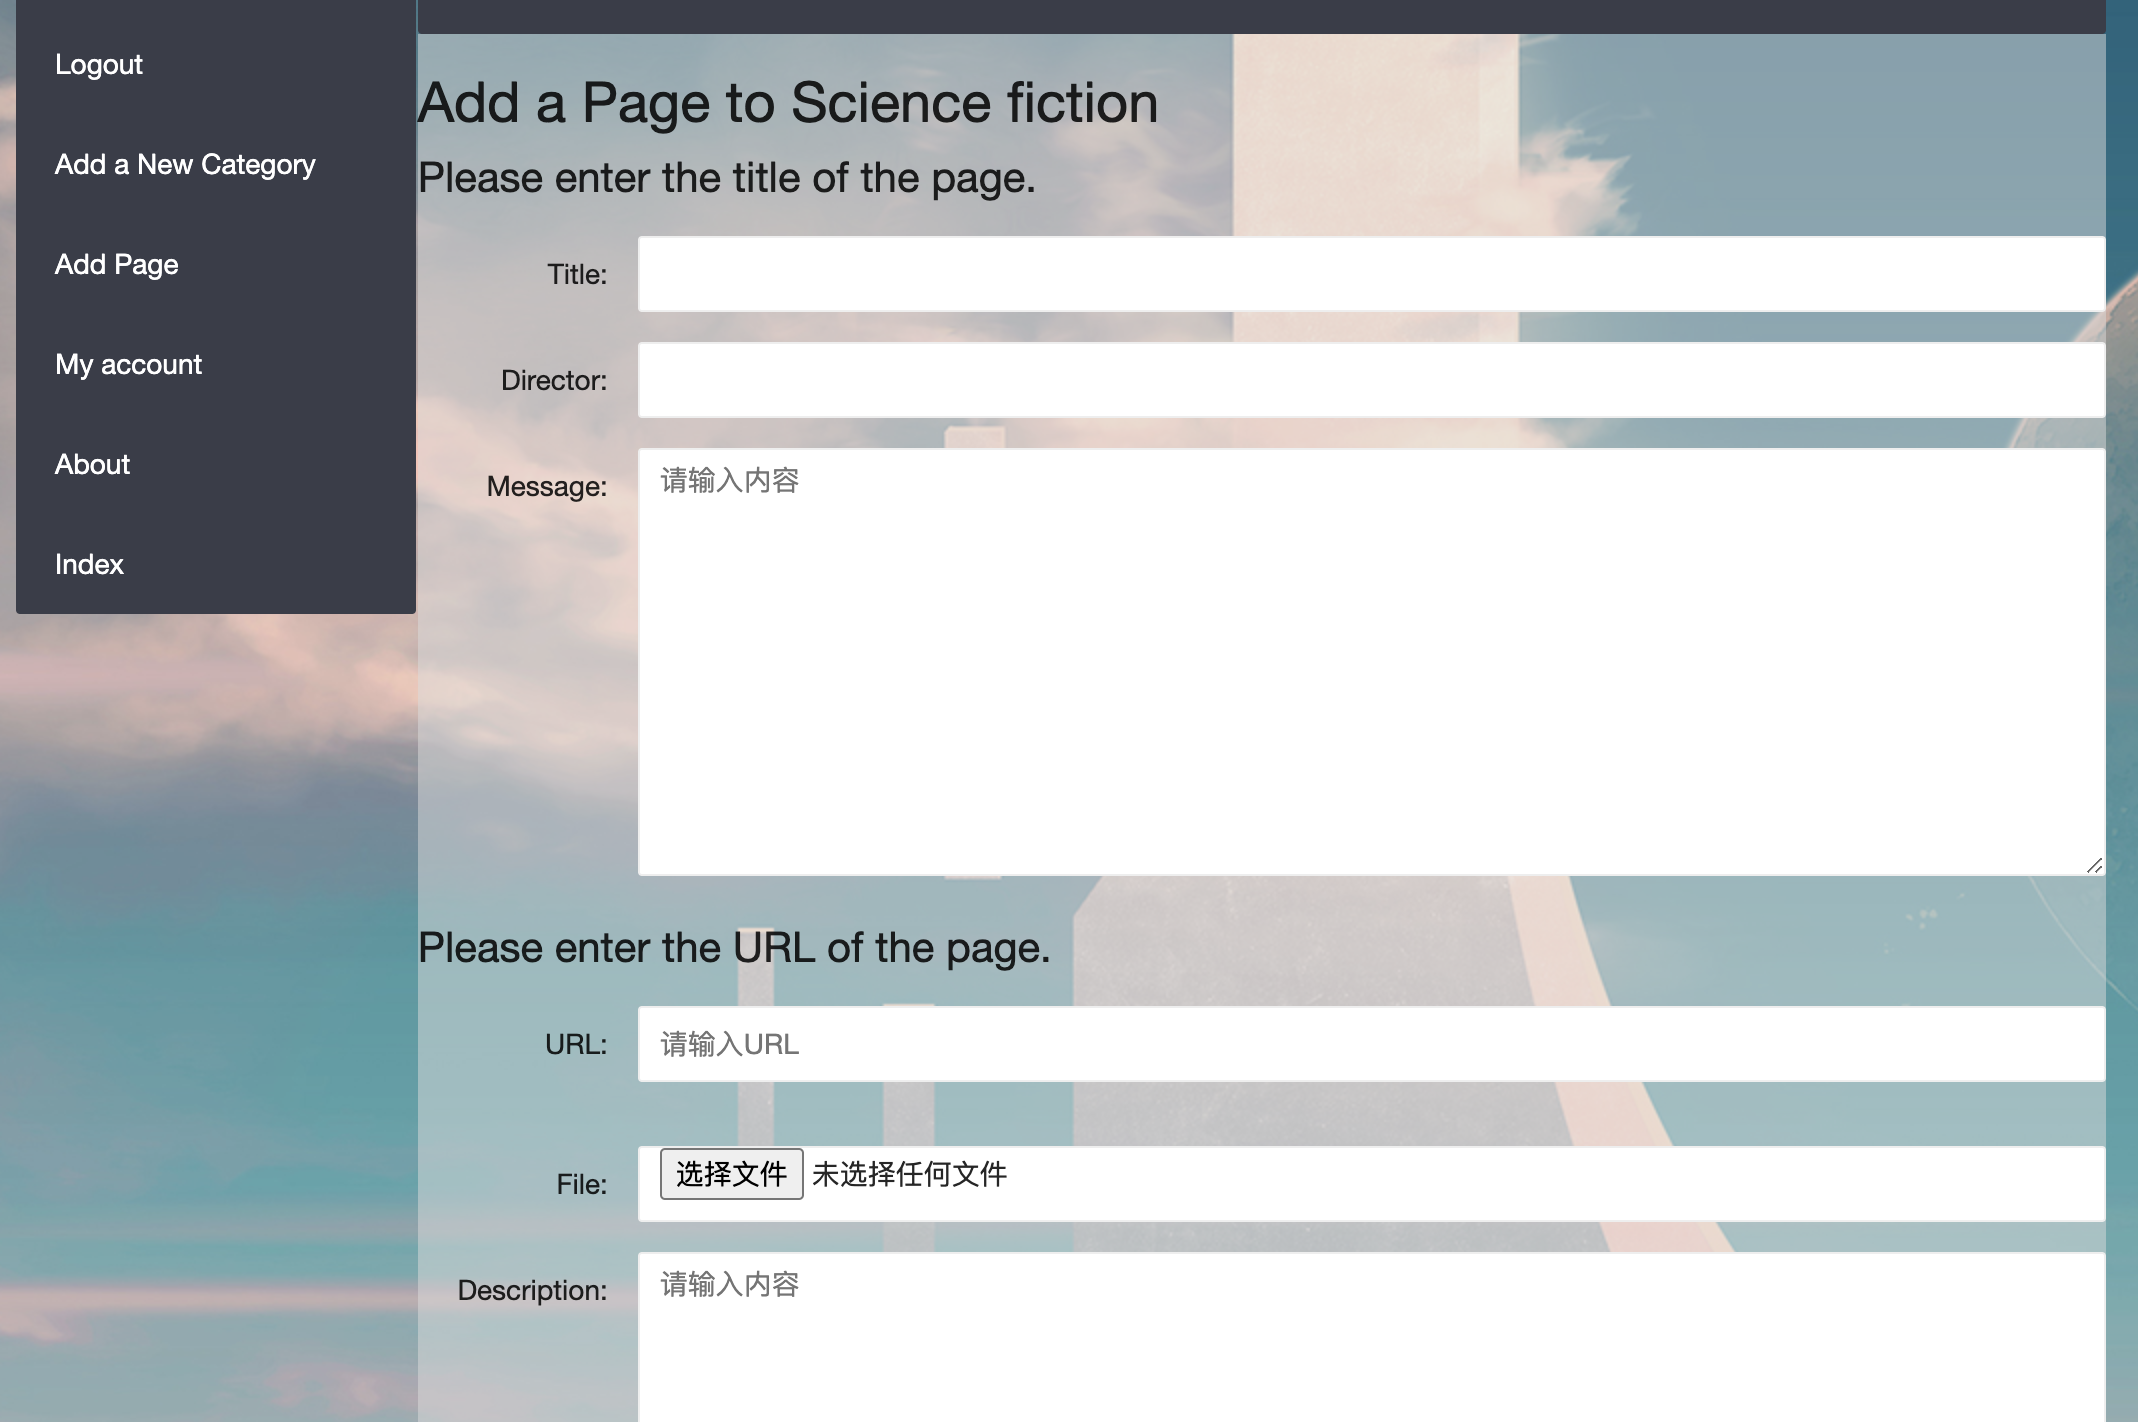
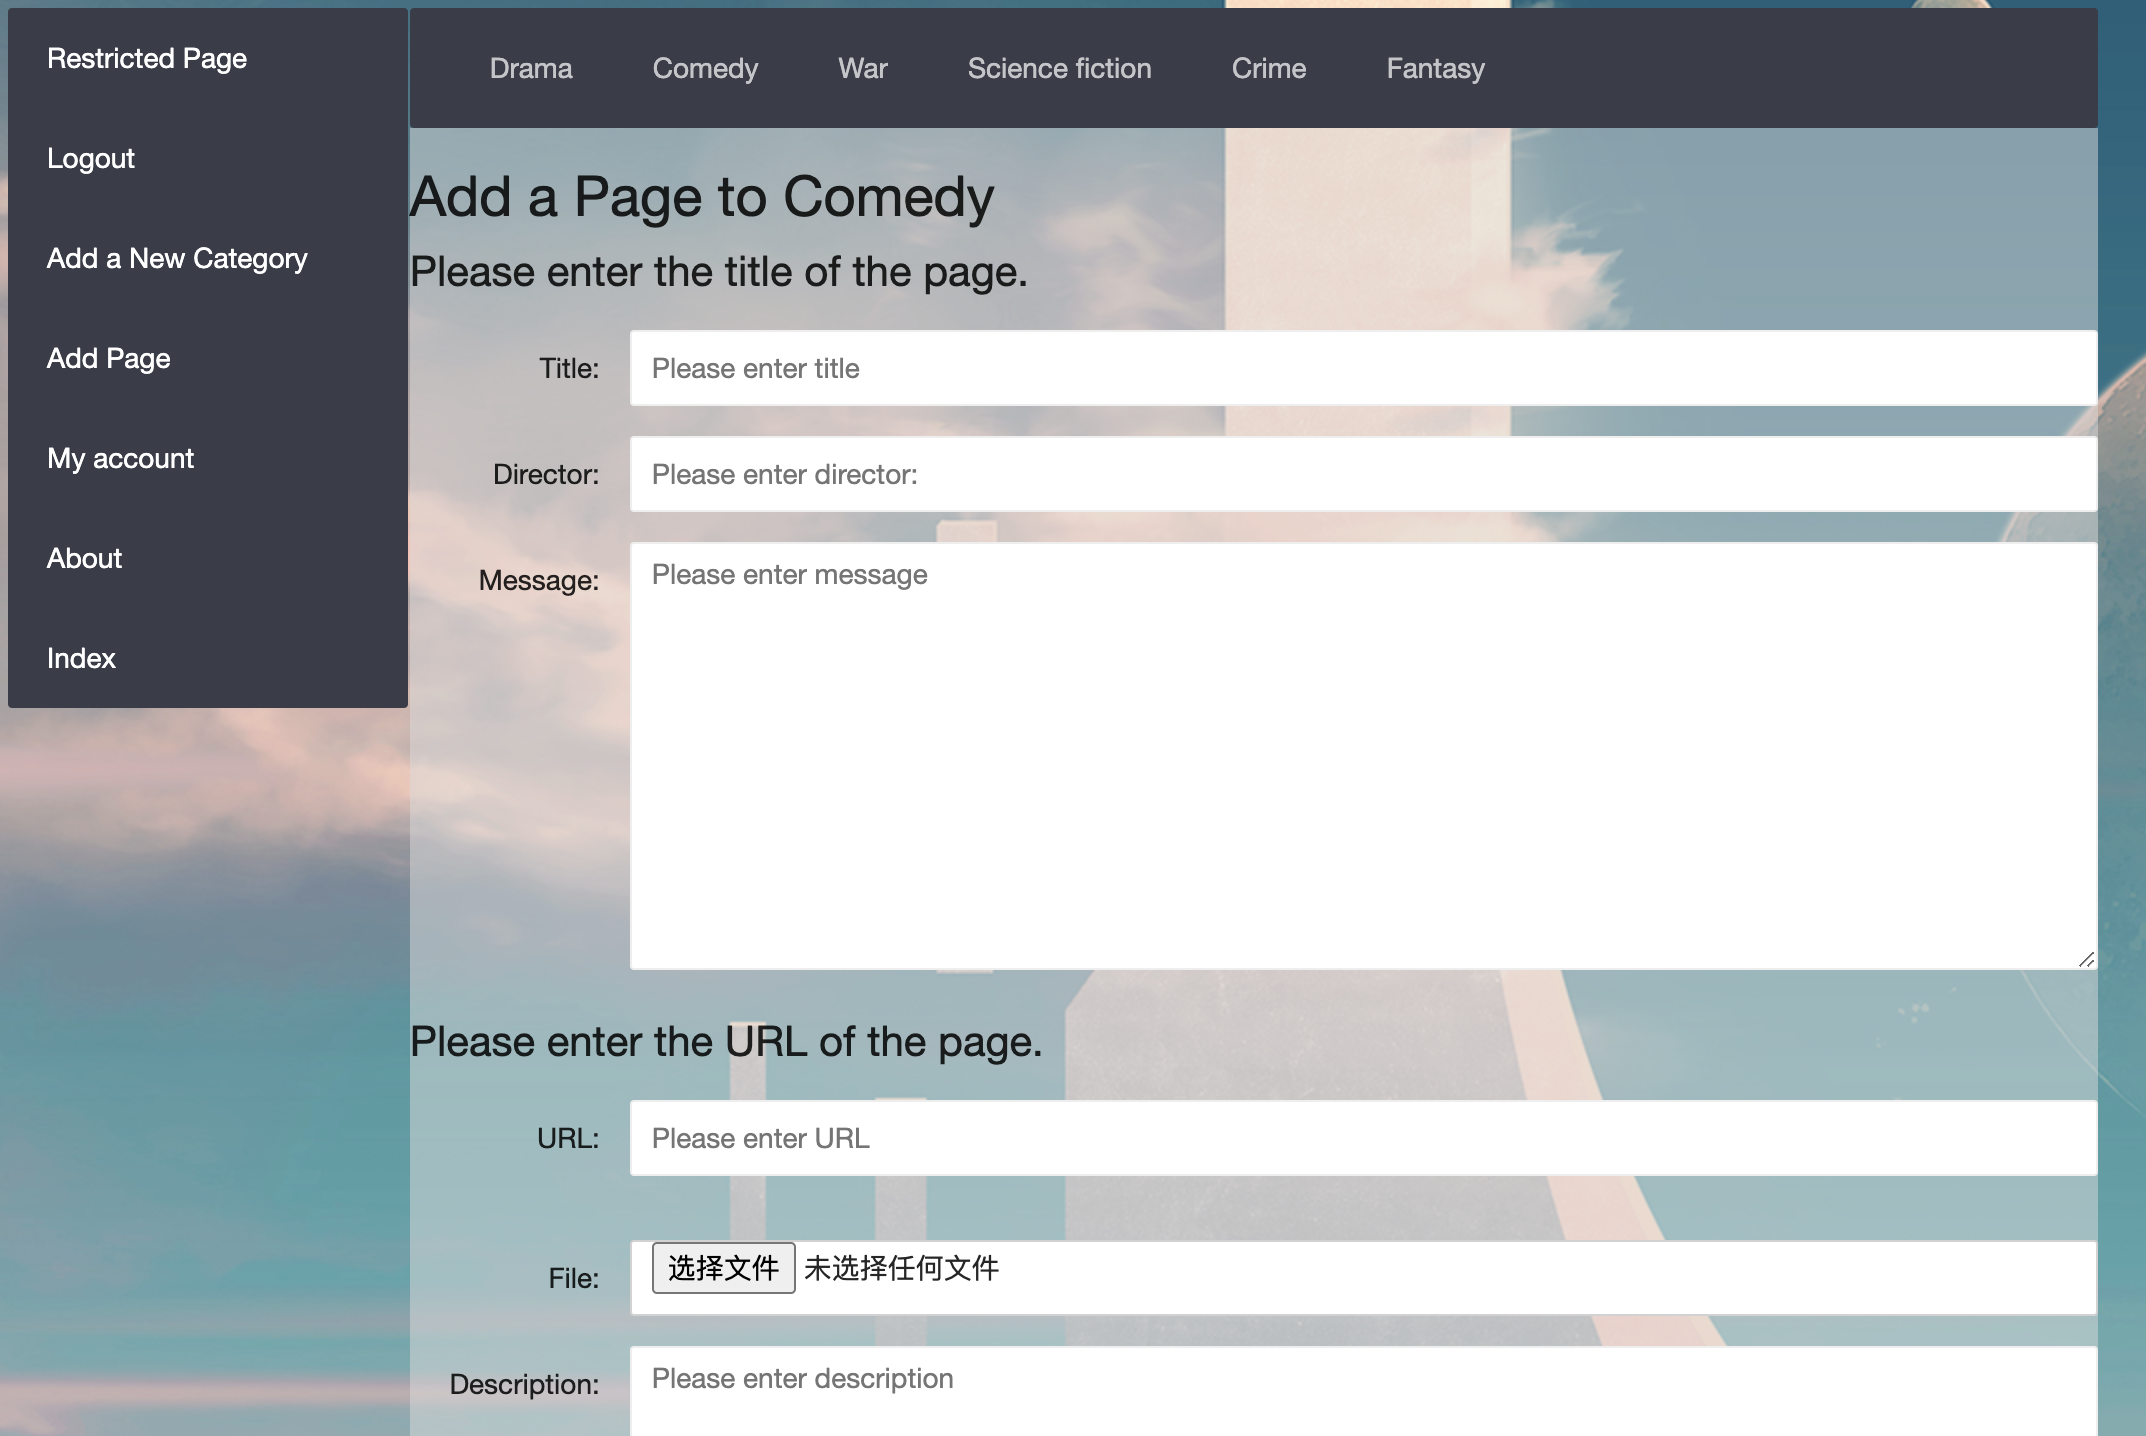
modify templates

diff --git a/templates/rango/add_page.html b/templates/rango/add_page.html
@@ -21,26 +21,26 @@
             <div class="layui-form-item" style="padding-top: 2%;">
                 <label class="layui-form-label">Title: </label>
                 <div class="layui-input-block">
-                    <input type="text" name="title" maxlength="128" required="" id="id_title" autocomplete="off" class="layui-input">
+                    <input type="text" name="title" maxlength="128" required="" id="id_title" placeholder="Please enter title" autocomplete="off" class="layui-input">
                 </div>
             </div>
             <div class="layui-form-item">
                 <label class="layui-form-label">Director: </label>
                 <div class="layui-input-block">
-                    <input type="text" name="director" maxlength="32" required="" id="id_director" autocomplete="off" class="layui-input">
+                    <input type="text" name="director" maxlength="32" required="" id="id_director" placeholder="Please enter director:" autocomplete="off" class="layui-input">
                 </div>
             </div>
             <div class="layui-form-item layui-form-text">
                 <label class="layui-form-label">Message: </label>
                 <div class="layui-input-block">
-                  <textarea name="actors" cols="40" rows="10" required="" id="id_actors" placeholder="请输入内容" class="layui-textarea"></textarea>
+                  <textarea name="actors" cols="40" rows="10" required="" id="id_actors" placeholder="Please enter message" class="layui-textarea"></textarea>
                 </div>
             </div>
             <h2 style="padding-top: 1%;">Please enter the URL of the page.  </h2>
             <div class="layui-form-item" style="padding-top: 2%;">
                 <label class="layui-form-label">URL: </label>
                 <div class="layui-input-block">
-                    <input type="url" name="url" maxlength="200" required="" id="id_url" autocomplete="off" class="layui-input" placeholder="请输入URL">
+                    <input type="url" name="url" maxlength="200" required="" id="id_url" autocomplete="off" class="layui-input" placeholder="Please enter URL">
                 </div>
             </div>
             <div class="layui-form-item" style="padding-top: 2%;">
@@ -52,7 +52,7 @@
             <div class="layui-form-item layui-form-text">
                 <label class="layui-form-label">Description: </label>
                 <div class="layui-input-block">
-                  <textarea name="description" cols="40" rows="10" required="" id="id_description" class="layui-textarea" placeholder="请输入内容"></textarea>
+                  <textarea name="description" cols="40" rows="10" required="" id="id_description" class="layui-textarea" placeholder="Please enter description"></textarea>
                 </div>
             </div>
             <div class="layui-form-item">

diff --git a/templates/rango/register.html b/templates/rango/register.html
@@ -20,25 +20,25 @@ Rango says: <strong>register here!</strong><br />
     <div class="layui-form-item" style="padding-top: 2%;">
         <label class="layui-form-label">Username: </label>
         <div class="layui-input-block">
-            <input type="text" name="username" id="id_username" required  lay-verify="required" placeholder="请输入用户名" autocomplete="off" class="layui-input">
+            <input type="text" name="username" id="id_username" required  lay-verify="required" placeholder="Please enter user name" autocomplete="off" class="layui-input">
         </div>
     </div>
     <div class="layui-form-item">
         <label class="layui-form-label">Email address: </label>
         <div class="layui-input-block">
-            <input type="email" name="email" placeholder="请输入邮箱" autocomplete="off" class="layui-input">
+            <input type="email" name="email" placeholder="Please enter user email" autocomplete="off" class="layui-input">
         </div>
     </div>
     <div class="layui-form-item">
         <label class="layui-form-label">Password: </label>
         <div class="layui-input-block">
-            <input type="password" name="password" id="id_password" required  lay-verify="required" placeholder="请输入密码" autocomplete="off" class="layui-input">
+            <input type="password" name="password" id="id_password" required  lay-verify="required" placeholder="Please enter password" autocomplete="off" class="layui-input">
         </div>
     </div>
     <div class="layui-form-item">
         <label class="layui-form-label">Website: </label>
         <div class="layui-input-block">
-            <input type="url" name="website" maxlength="200" placeholder="请输入站点" autocomplete="off" class="layui-input">
+            <input type="url" name="website" maxlength="200" placeholder="Please enter website" autocomplete="off" class="layui-input">
         </div>
     </div>
     <div class="layui-form-item">

diff --git a/templates/rango/login.html b/templates/rango/login.html
@@ -13,13 +13,13 @@
     <div class="layui-form-item" style="padding-top: 2%;">
         <label class="layui-form-label">Username: </label>
         <div class="layui-input-block">
-            <input type="text" name="username" required  lay-verify="required" placeholder="请输入用户名" autocomplete="off" class="layui-input">
+            <input type="text" name="username" required  lay-verify="required" placeholder="Please enter user name" autocomplete="off" class="layui-input">
         </div>
     </div>
     <div class="layui-form-item">
         <label class="layui-form-label">Password: </label>
         <div class="layui-input-block">
-            <input type="password" name="password" required  lay-verify="required" placeholder="请输入密码" autocomplete="off" class="layui-input">
+            <input type="password" name="password" required  lay-verify="required" placeholder="Please enter user password" autocomplete="off" class="layui-input">
         </div>
     </div>
     <div class="layui-form-item">
